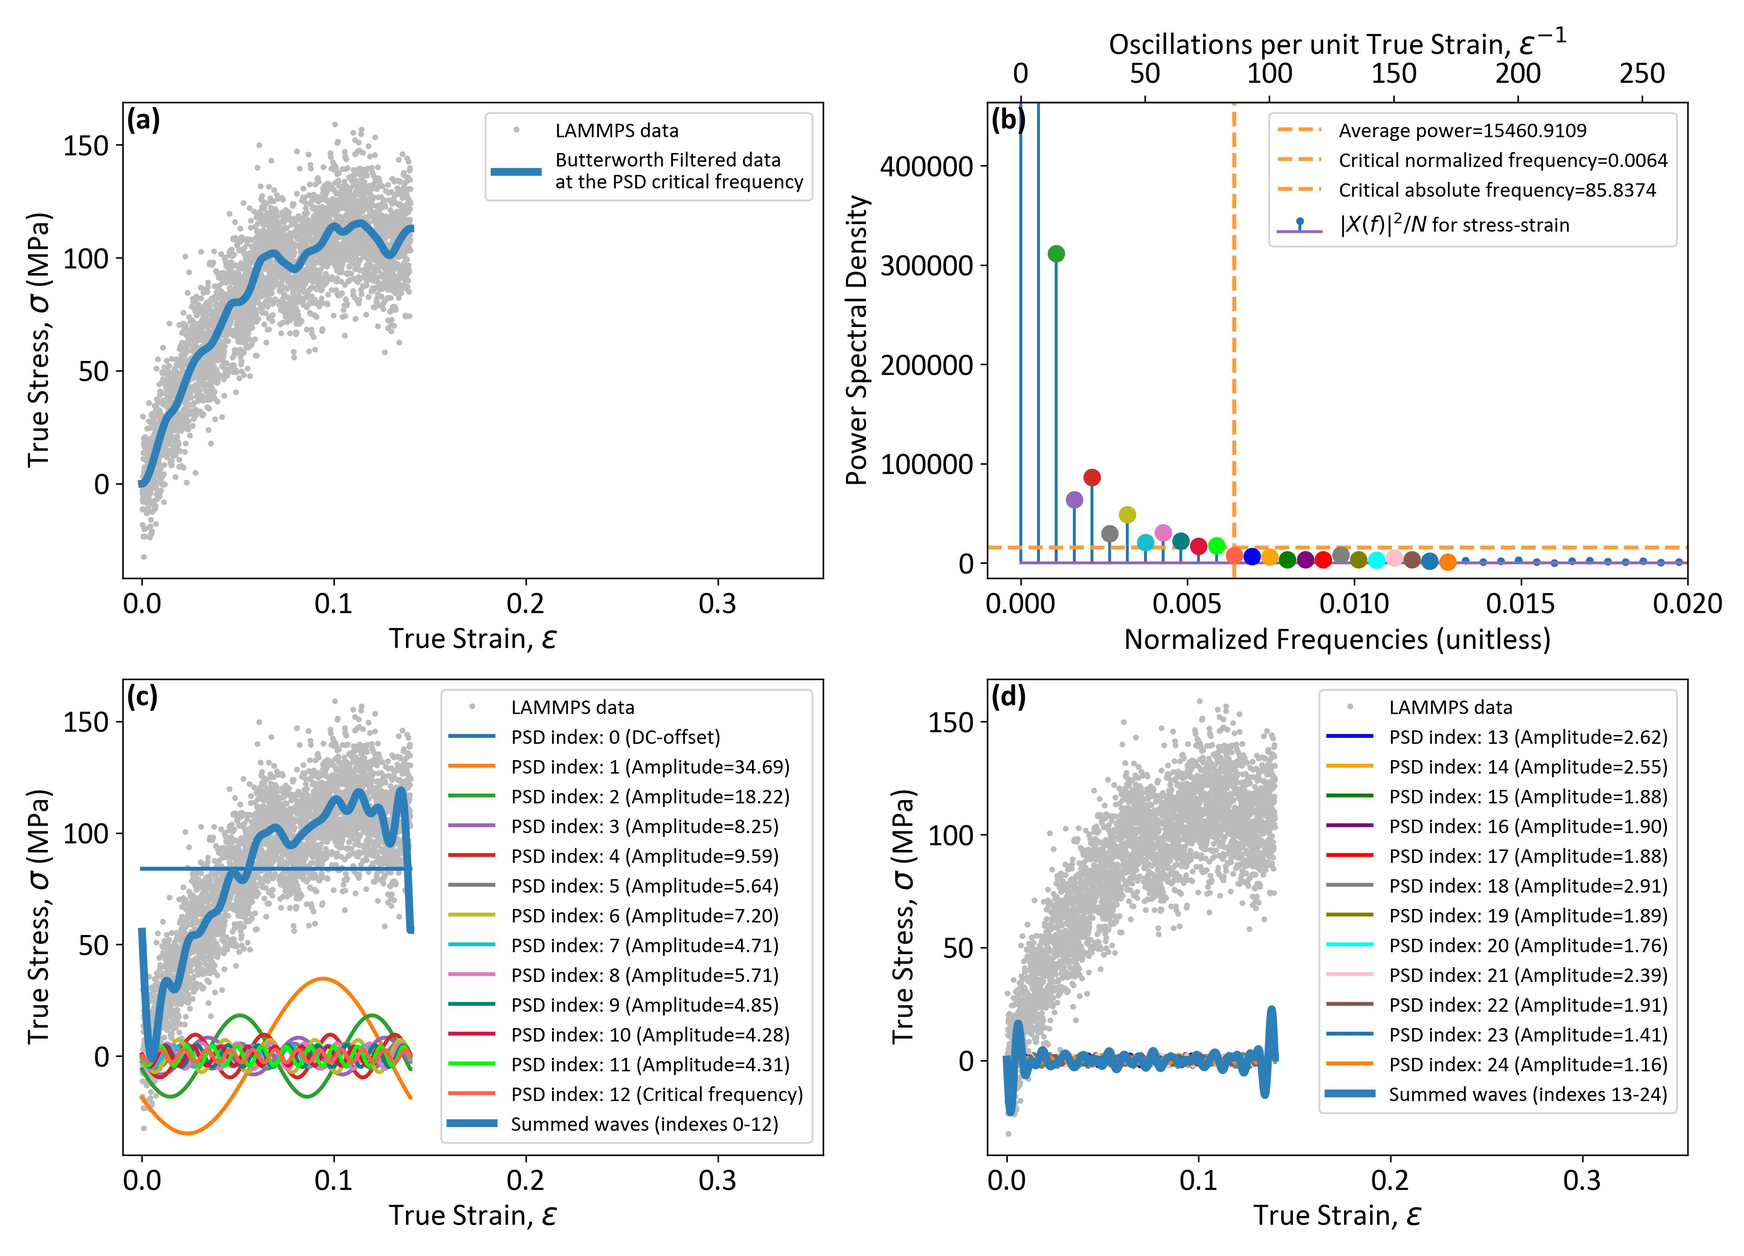
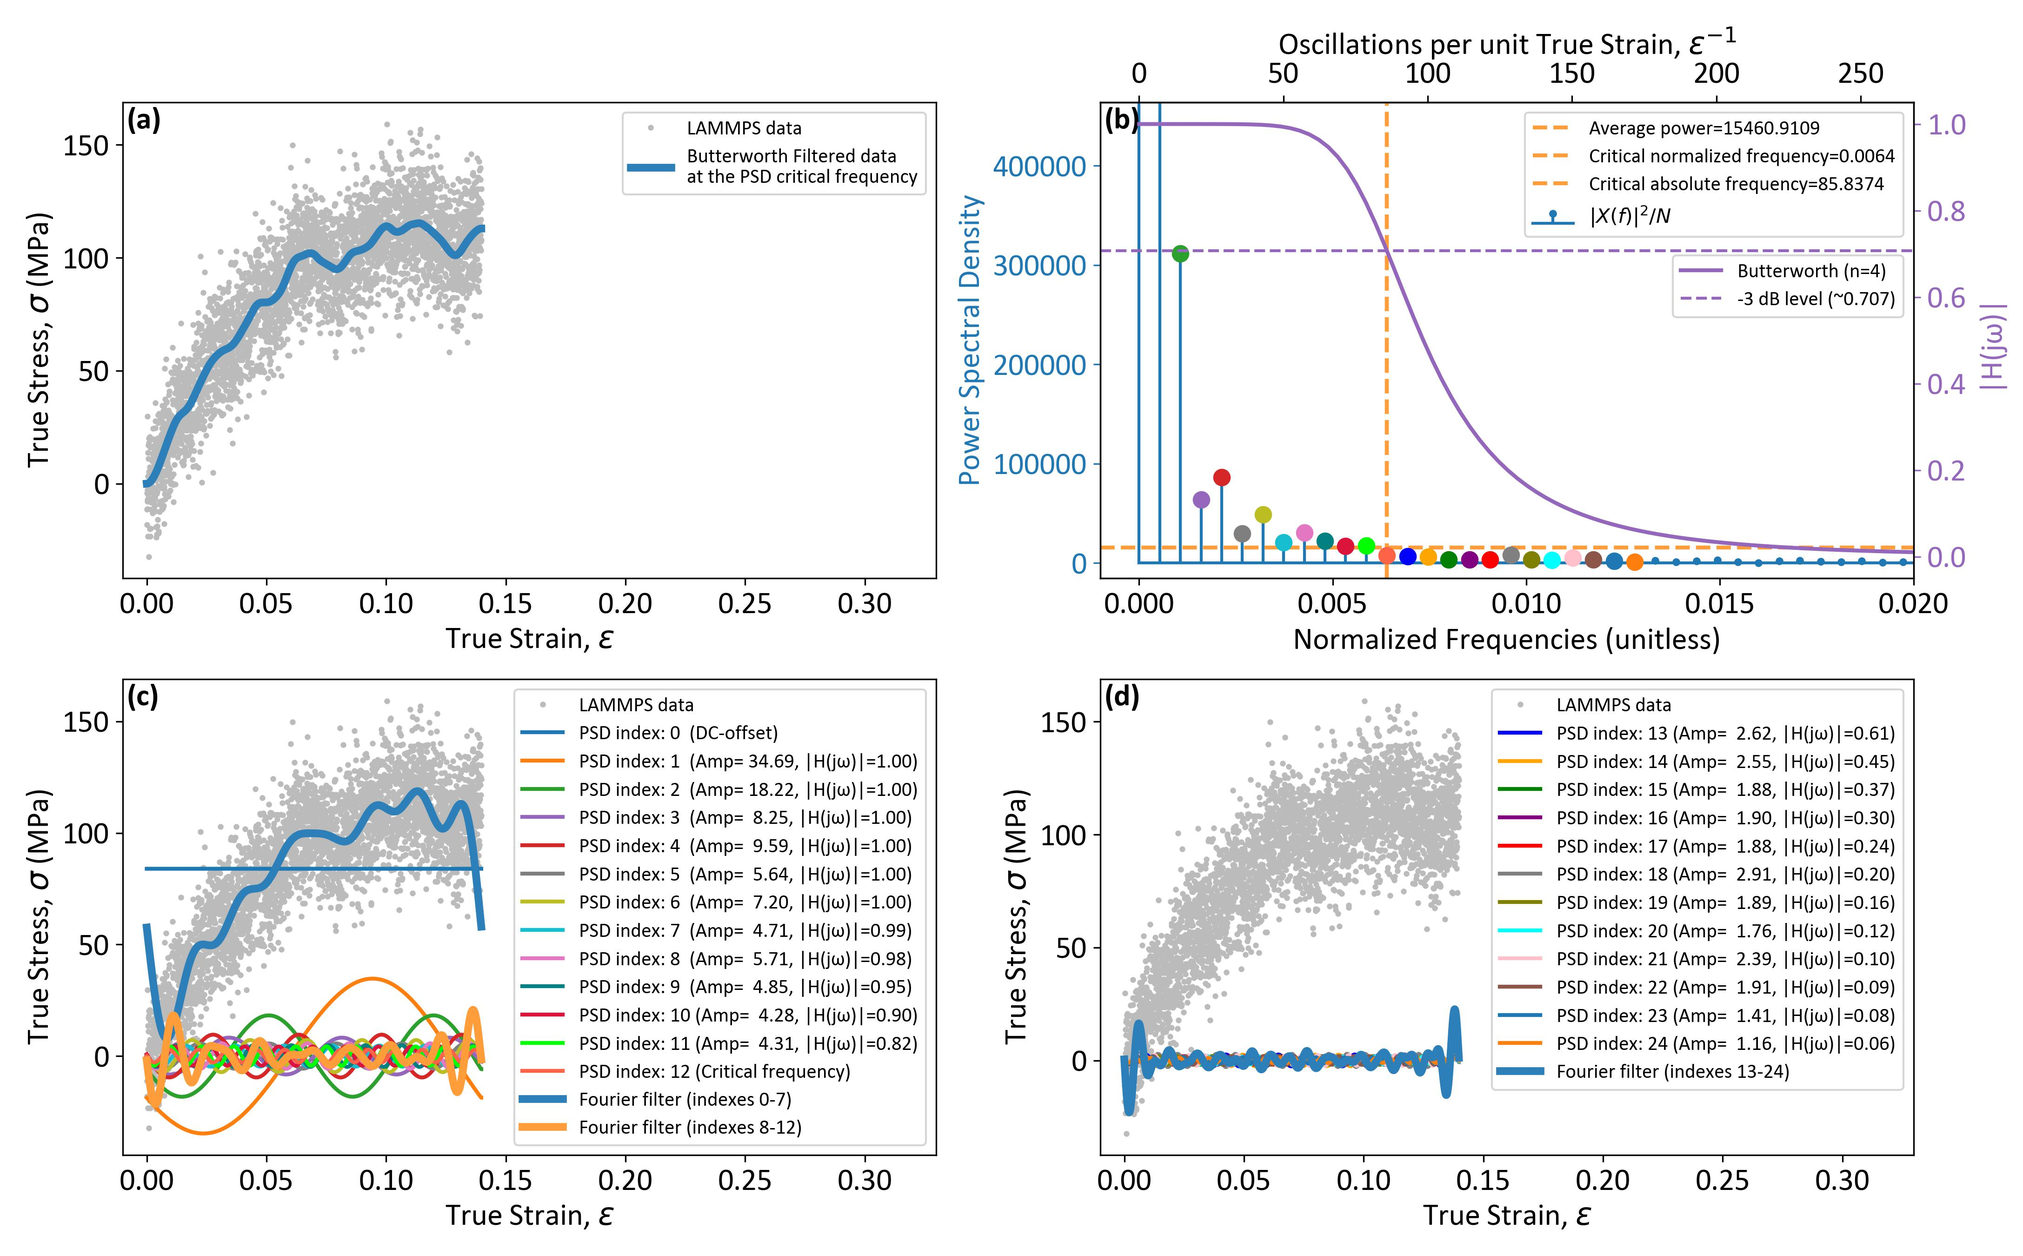
Adding Butterworth code

diff --git a/Cutoff_effects.py b/Cutoff_effects.py
@@ -43,6 +43,7 @@ from cycler import cycler
 import matplotlib.pyplot as plt
 import matplotlib as mpl  
 mpl.rc('font',family='Calibri')
+from matplotlib.ticker import ScalarFormatter
 import numpy as np
 import scipy as sp
 
@@ -54,14 +55,14 @@ import scipy as sp
 logfile = 'logfiles/tensile_1_EPON_862_pxld_86.8_replicate_4_FF_PCFF.log.lammps'
 strain_direction = 'x'
 
-logfile = 'logfiles/tensile_3_PBZ_pxld_87_replicate_5_FF_PCFF.log.lammps'
-strain_direction = 'z'
+# logfile = 'logfiles/tensile_3_PBZ_pxld_87_replicate_5_FF_PCFF.log.lammps'
+# strain_direction = 'z'
 
-logfile = 'logfiles/tensile_2_AroCy_L10_pxld_97_replicate_1_FF_PCFF.log.lammps'
-strain_direction = 'y'
+# logfile = 'logfiles/tensile_2_AroCy_L10_pxld_97_replicate_1_FF_PCFF.log.lammps'
+# strain_direction = 'y'
 
-# logfile = 'logfiles/tensile_1_PEEK_pxld_90_replicate_3_FF_PCFF.log.lammps'
-# strain_direction = 'x'
+logfile = 'logfiles/tensile_1_PEEK_pxld_90_replicate_3_FF_PCFF.log.lammps'
+strain_direction = 'x'
 
 
 # Set some column keywords to find sections in logfile with thermo data.
@@ -286,20 +287,6 @@ if __name__ == "__main__":
         freq = np.fft.rfftfreq(N, d=d)
         wns = freq/(0.5*fs) # Normalized freq
         return freq, wns, fs
-
-
-    def butterworth_amp_response(order=2, wn=0.1):
-        b, a = sp.signal.butter(order, wn, btype='low', analog=False, output='ba', fs=None)
-        f, h = sp.signal.freqz(b, a, worN=4096)
-        f = f / np.pi
-        h = abs(h)
-        return f, h
-
-    def butter_near_amp(nfreq, f, h):
-        index = np.abs(f - nfreq).argmin()
-        return h[index]
-    
-
     
     
     #---------------------------------#
@@ -312,7 +299,7 @@ if __name__ == "__main__":
     #   colors = plt.rcParams['axes.prop_cycle'].by_key()['color']
     # However, we can construct our own color wheel to prioritize the colors we want first and we can 
     # have way more colors defined than what matplotlib defines. Below is Josh's preferred color wheel
-    colors = ['tab:blue', 'tab:orange', 'tab:green', 'tab:purple', 'tab:red', 'tab:gray','tab:olive', 'tab:cyan', 'tab:pink', 'teal',
+    colors = ['tab:orange', 'tab:green', 'tab:purple', 'tab:red', 'tab:gray','tab:olive', 'tab:cyan', 'tab:pink', 'teal', 'tab:blue', 
               'crimson', 'lime', 'tomato',  'blue', 'orange', 'green', 'purple', 'red', 'gray', 'olive', 'cyan', 'pink', 'tab:brown']
 
 
@@ -330,28 +317,19 @@ if __name__ == "__main__":
     # Set xlimits
     delta = 0.01
     xlimits = (np.min(strain)-delta, np.max(strain)+1.5*delta)
-    xlimits = (np.min(strain)-delta, np.max(strain)+1.5*delta+0.175)
+    xlimits = (np.min(strain)-delta, np.max(strain)+1.5*delta+0.125)
     
     # Set fontsize
     fs = 16
-    legend_fs_scale = 0.65
+    legend_fs_scale = 0.7
     label_rel_pos = (0.005, 0.99)
     
     # Start plotting data
-    fig, ((ax1, ax2), (ax3, ax4)) = plt.subplots(2, 2, figsize=(14.5, 9))
+    fig, (ax1, ax2) = plt.subplots(1, 2, figsize=(14, 6))
 
-    ax1.plot(strain, stress, '.', ms=4, color='#bbbbbbff', label='LAMMPS data')
-    ax1.plot(strain, filtered_stress, '-', lw=4, color='#2c7fb8ff', label='Butterworth Filtered data\nat the PSD critical frequency')
-    ax1.legend(loc='upper right', bbox_to_anchor=(1, 1), fancybox=True, ncol=1, fontsize=legend_fs_scale*fs)
-    ax1.set_xlabel(r'True Strain, $\epsilon$', fontsize=fs)
-    ax1.set_ylabel(r'True Stress, $\sigma$ (MPa)', fontsize=fs)
-    ax1.tick_params(axis='both', which='major', labelsize=fs)
-    ax1.set_xlim(xlimits)
-    ax1.text(*label_rel_pos, '(a)', transform=ax1.transAxes, fontsize=fs, fontweight='bold', va='top', ha='left')
-    
+    ax1.plot(strain, stress, '.', ms=4, color='#bbbbbbff', label='LAMMPS data')      
     if str(wn).startswith('op'):
-        color = 'tab:blue'
-        ax2.stem(wns_stress, psd_stress, linefmt=color, basefmt=color, markerfmt='.', label='$|X(f)|^2/N$')
+        ax2.stem(wns_stress, psd_stress, linefmt='tab:blue', markerfmt='.', label='$|X(f)|^2/N$ for stress-strain')
         ax2.axhline(mean_stress_psd, color='#ff9d3aff', ls='--', lw=2, label='Average power={:.4f}'.format(mean_stress_psd))
 
         
@@ -364,92 +342,58 @@ if __name__ == "__main__":
             return freq/(0.5*sample_rate)
         
         ax2Top = ax2.secondary_xaxis('top', functions=(wn2freq, freq2wn))   
-        ax2Top.set_xlabel('Oscillations per unit True Strain, {}{}'.format(r'$\epsilon$', '$^{-1}$'), fontsize=fs)
+        ax2Top.set_xlabel('Cycles per unit True Strain, {}{}'.format(r'$\epsilon$', '$^{-1}$'), fontsize=fs)
         ax2Top.tick_params(axis='both', which='major', labelsize=fs)
                 
 
-        ax2.axvline(wn_stress, color='#ff9d3aff', ls='--', lw=2, label='Critical normalized frequency={:.4f}'.format(wn_stress))
-        ax2.axvline(wn_stress, color='#ff9d3aff', ls='--', lw=2, label='Critical absolute frequency={:.4f}'.format(wn_stress*(0.5*sample_rate)))
+        ax2.axvline(wn_stress, color='#ff9d3aff', ls='--', lw=2, label='Normalized: {}$_c$={:.4f}'.format(r'$\omega$', wn_stress))
+        ax2.axvline(wn_stress, color='#ff9d3aff', ls='--', lw=2, label='Absolute:      {}$_c$={:.4f}'.format(r'$\omega$', wn_stress*(0.5*sample_rate)))
         ax2.legend(loc='upper right', bbox_to_anchor=(1, 1), fancybox=True, ncol=1, fontsize=legend_fs_scale*fs)
-        ax2.set_xlabel('Normalized Frequencies (unitless)', fontsize=fs)
-        ax2.set_ylabel('Power Spectral Density', fontsize=fs, color=color)
-        ax2.tick_params(axis='x', which='major', labelsize=fs, colors='black')
-        ax2.tick_params(axis='y', which='major', labelsize=fs, colors=color)
-        ax2.set_xlim((-0.001, 0.02)) # Comment/uncomment for xlimits
+        ax2.set_xlabel('Normalized Frequency, {}'.format(r'$\omega$'), fontsize=fs)
+        ax2.set_ylabel('Power Spectral Density', fontsize=fs)
+        ax2.tick_params(axis='both', which='major', labelsize=fs)
+        ax2.set_xlim((-0.001, 0.04)) # Comment/uncomment for xlimits
         ax2.set_ylim((-1*mean_stress_psd, 30*mean_stress_psd)) # Comment/uncomment for xlimits
         ax2.text(*label_rel_pos, '(b)', transform=ax2.transAxes, fontsize=fs, fontweight='bold', va='top', ha='left')
         
         
-        ax2Left = ax2.twinx()
-        color = 'tab:purple'
-        f, h = butterworth_amp_response(order=4, wn=wn_stress)
-        ax2Left.plot(f, h, lw=2, color=color, label='Butterworth (n=4)')
-        ax2Left.axhline(1/np.sqrt(2) , linestyle='--', lw=1.5, color='tab:purple', label='-3 dB level (~0.707)')
-        ax2Left.set_ylabel('|H(jω)|', fontsize=fs, color=color)
-        ax2Left.tick_params(axis='both', which='major', labelsize=fs, colors=color)
-        ax2Left.set_xlim((-0.001, 0.02)) # Comment/uncomment for xlimits
-        ax2Left.legend(loc='upper right', bbox_to_anchor=(1, 0.7), fancybox=True, ncol=1, fontsize=legend_fs_scale*fs)
-        
-
-
-    color_index = 0
-    ax3.plot(strain, stress, '.', ms=4, color='#bbbbbbff', label='LAMMPS data')
-    comp_wave_1 = np.zeros_like(stress)
-    comp_wave_2 = np.zeros_like(stress)
-    lo = 0
-    hi = wn_index
-    for i in range(lo, hi+1):
-        wave, phase, frequency, amplitude = FFT_breakdown(strain, stress, [i], qm_stress)
-        sf = butter_near_amp(wns[i], f, h)
-        
-        if sf >= 0.99:
-            comp_wave_1 += wave
-            max_index = i
-        else:
-            comp_wave_2 += wave
+        label = 'PSD index: {}'.format(wn_index)
+        ax2.plot(wns_stress[wn_index], psd_stress[wn_index], 'o', ms=8, color='#2c7fb8ff')
             
-        label = 'PSD index: {:<2}'.format(i)
-        if i == 0: label += ' (DC-offset)'
-        elif i == wn_index: label += ' (Critical frequency)'
-        else: label += ' (Amp={:>6.2f}, |H(jω)|={:.2f})'.format(amplitude, sf)
-        color, color_index = walk_colors(color_index, colors)
-        
-        ax3.plot(strain, wave, '-', lw=2, color=color, label=label)
-        ax2.plot(wns_stress[i], psd_stress[i], 'o', ms=8, color=color)
-    ax3.plot(strain, comp_wave_1, '-', lw=4, color='#2c7fb8ff', label='Fourier filter (indexes {}-{})'.format(lo, max_index))
-    ax3.plot(strain, comp_wave_2, '-', lw=4, color='#ff9d3aff', label='Fourier filter (indexes {}-{})'.format(max_index+1, hi))
 
-    ax3.legend(loc='upper right', bbox_to_anchor=(1, 1), fancybox=True, ncol=1, fontsize=legend_fs_scale*fs)
-    ax3.set_xlabel(r'True Strain, $\epsilon$', fontsize=fs)
-    ax3.set_ylabel(r'True Stress, $\sigma$ (MPa)', fontsize=fs)
-    ax3.tick_params(axis='both', which='major', labelsize=fs)
-    ax3.set_xlim(xlimits)
-    ax3.text(*label_rel_pos, '(c)', transform=ax3.transAxes, fontsize=fs, fontweight='bold', va='top', ha='left')
+        indexes = [int(wn_index)]
+        lo = int(wn_index/6)
+        hi = int(2*wn_index)
+        inc = lo
+        for i in range(lo, hi, inc):
+            indexes.append( int(wn_index + 2*i) )
+            indexes.append( int(wn_index - i) )
+        indexes = sorted(indexes)
+        color_index = 0
+        for i in indexes:
+            if i <= 0: continue
+            filtered_stress_i, qm_stress_i = signals.butter_lowpass_filter(strain, stress, wns_stress[i], order, qm_stress)
+            if i == wn_index:
+                label = 'PSD index: {} (Critical frequency)'.format(wn_index)
+                color = '#2c7fb8ff'
+                ax1.plot(strain, filtered_stress, '-', lw=2, color='#2c7fb8ff', zorder=5, label=label)
+            else:
+                color, color_index = walk_colors(color_index, colors)
+                label = 'PSD index: {}'.format(i)
+                ax1.plot(strain, filtered_stress_i, '-', lw=2, color=color, label=label)
+            
+            ax2.plot(wns_stress[i], psd_stress[i], 'o', ms=8, color=color)
+            
+    ax1.legend(loc='upper right', bbox_to_anchor=(1, 1), fancybox=True, ncol=1, fontsize=legend_fs_scale*fs)
+    ax1.set_xlabel(r'True Strain, $\epsilon$', fontsize=fs)
+    ax1.set_ylabel(r'True Stress, $\sigma$ (MPa)', fontsize=fs)
+    ax1.tick_params(axis='both', which='major', labelsize=fs)
+    ax1.set_xlim(xlimits)
+    ax1.text(*label_rel_pos, '(a)', transform=ax1.transAxes, fontsize=fs, fontweight='bold', va='top', ha='left')
 
-    ax4.plot(strain, stress, '.', ms=4, color='#bbbbbbff', label='LAMMPS data')
-    comp_wave = np.zeros_like(stress)
-    lo = int(wn_index+1)
-    hi = int(2*wn_index)
-    for i in range(lo, hi+1):
-        wave, phase, frequency, amplitude = FFT_breakdown(strain, stress, [i], qm_stress)
-        sf = butter_near_amp(wns[i], f, h)
-        comp_wave += wave
-        label = 'PSD index: {:<2}'.format(i)
-        label += ' (Amp={:>6.2f}, |H(jω)|={:.2f})'.format(amplitude, sf)
-        color, color_index = walk_colors(color_index, colors)
-        ax4.plot(strain, wave, '-', lw=2, color=color, label=label)
-        ax2.plot(wns_stress[i], psd_stress[i], 'o', ms=8, color=color)
-    ax4.plot(strain, comp_wave, '-', lw=4, color='#2c7fb8ff', label='Fourier filter (indexes {}-{})'.format(lo, hi))
 
-    ax4.legend(loc='upper right', bbox_to_anchor=(1, 1), fancybox=True, ncol=1, fontsize=legend_fs_scale*fs)
-    ax4.set_xlabel(r'True Strain, $\epsilon$', fontsize=fs)
-    ax4.set_ylabel(r'True Stress, $\sigma$ (MPa)', fontsize=fs)
-    ax4.tick_params(axis='both', which='major', labelsize=fs)
-    ax4.set_xlim(xlimits)
-    ax4.text(*label_rel_pos, '(d)', transform=ax4.transAxes, fontsize=fs, fontweight='bold', va='top', ha='left')
-        
-    
     fig.tight_layout()
     plt.show()
-    basename = logfile[:logfile.rfind('.')] + '_Waves'
+    
+    basename = logfile[:logfile.rfind('.')] + '_Cutoffs'
     fig.savefig(basename+'.jpeg', dpi=300)

diff --git a/Butterworth.py b/Butterworth.py
@@ -1,0 +1,172 @@
+# -*- coding: utf-8 -*-
+"""
+@author: Josh Kemppainen
+Revision 1.0
+March 24, 2025
+Michigan Technological University
+1400 Townsend Dr.
+Houghton, MI 49931
+
+    ****************************************************************
+    * Requirements:                                                *
+    *   python 3.7+                                                *
+    *                                                              *
+    * Dependencies:                                                *
+    *   python matplotlib module:                                  *
+    *    - pip3 install matplotlib (if pip manager is installed)   *
+    *                                                              *
+    *   python numpy module:                                       *
+    *    - pip3 install numpy (if pip manager is installed)        *
+    *                                                              *
+    *   python scipy module:                                       *
+    *    - pip3 install scipy (if pip manager is installed)        *
+    ****************************************************************
+    * Notes for Anaconda Spyder IDE users:                         *
+    *   - If running this from the Anaconda Spyder IDE, before     *
+    *     running you will have to turn on the interactive plot    *
+    *     if you want the interactive plot to pop-up. You may do   *
+    *     this by executing the following command in the console:  *
+    *        %matplotlib qt                                        *
+    *     Then to turn back on the inline plotting, where the plots*
+    *     will appear in the Plots tab execute the following       *
+    *     command in the console:                                  *
+    *        %matplotlib inline                                    *
+    ****************************************************************
+"""
+##############################
+# Import Necessary Libraries #
+##############################
+import matplotlib.pyplot as plt
+import matplotlib as mpl  
+mpl.rc('font',family='Calibri')
+import numpy as np
+import scipy as sp
+
+
+
+
+
+
+def butterworth_amp_response(order=2, wn=0.1):
+    b, a = sp.signal.butter(order, wn, btype='low', analog=False, output='ba', fs=None)
+    f, h = sp.signal.freqz(b, a, worN=4096)
+    f = f / np.pi
+    h = abs(h)
+    return f, h
+
+def get_ylims(h):
+    tol = 0.1
+    y = np.real(h)
+    diff = abs(max(y) - min(y))
+    lo = min(y) - tol*diff
+    hi = max(y) + tol*diff
+    ylo, yhi = sorted([lo, hi])
+    return ylo, yhi
+
+# Set fontsize
+fs = 16
+legend_fs_scale = 0.7
+label_rel_pos = (0.005, 0.99)
+
+ylo = -0.1
+yhi =  1.1
+mag_3db = 1/np.sqrt(2)      # ~0.707
+
+
+fig, ((ax1, ax2), (ax3, ax4)) = plt.subplots(2, 2, figsize=(12.5, 9))
+
+
+wn = 0.2
+f, h = butterworth_amp_response(order=4, wn=wn)
+ax1.plot(*butterworth_amp_response(order=2, wn=wn), lw=2, color='tab:blue', label='Butterworth (n=2)')
+ax1.plot(f, h, lw=2, color='tab:purple', label='Butterworth (n=4)')
+ax1.plot(*butterworth_amp_response(order=6, wn=wn), lw=2, color='tab:green', label='Butterworth (n=6)')
+ax1.plot(*butterworth_amp_response(order=8, wn=wn), lw=2, color='tab:cyan', label='Butterworth (n=8)')
+ax1.axvline(wn, linestyle='--', lw=1.5, color='#ff9d3aff', label='Cutoff Frequency ({}$_c$)'.format(r'$\omega$'))
+ax1.axhline(mag_3db, linestyle='--', lw=1.5, color='#bbbbbbff', label='-3 dB level (~0.707)')
+
+# Shade passband and stopband regions
+ax1.fill_between(f, ylo, yhi, where=(f <= wn), alpha=0.1, color='tab:blue', label='Passband')
+ax1.fill_between(f, ylo, yhi, where=(f >= wn), alpha=0.1, color='tab:orange', label='Stopband')
+
+ax1.set_xlim((0, 1))
+ax1.set_ylim((ylo, yhi))
+ax1.set_xlabel('Normalized Frequency, {}'.format(r'$\omega$'), fontsize=fs)
+ax1.set_ylabel('|H(jω)|', fontsize=fs)
+ax1.tick_params(axis='both', which='major', labelsize=fs)
+ax1.legend(loc='upper right', bbox_to_anchor=(1, 1), fancybox=True, ncol=1, fontsize=legend_fs_scale*fs)
+ax1.text(*label_rel_pos, '(a)', transform=ax1.transAxes, fontsize=fs, fontweight='bold', va='top', ha='left')
+
+
+
+wn = 0.4
+f, h = butterworth_amp_response(order=4, wn=wn)
+ax2.plot(*butterworth_amp_response(order=2, wn=wn), lw=2, color='tab:blue', label='Butterworth (n=2)')
+ax2.plot(f, h, lw=2, color='tab:purple', label='Butterworth (n=4)')
+ax2.plot(*butterworth_amp_response(order=6, wn=wn), lw=2, color='tab:green', label='Butterworth (n=6)')
+ax2.plot(*butterworth_amp_response(order=8, wn=wn), lw=2, color='tab:cyan', label='Butterworth (n=8)')
+ax2.axvline(wn, linestyle='--', lw=1.5, color='#ff9d3aff', label='Cutoff Frequency ({}$_c$)'.format(r'$\omega$'))
+ax2.axhline(mag_3db, linestyle='--', lw=1.5, color='#bbbbbbff', label='-3 dB level (~0.707)')
+
+# Shade passband and stopband regions
+ax2.fill_between(f, ylo, yhi, where=(f <= wn), alpha=0.1, color='tab:blue', label='Passband')
+ax2.fill_between(f, ylo, yhi, where=(f >= wn), alpha=0.1, color='tab:orange', label='Stopband')
+
+ax2.set_xlim((0, 1))
+ax2.set_ylim((ylo, yhi))
+ax2.set_xlabel('Normalized Frequency, {}'.format(r'$\omega$'), fontsize=fs)
+ax2.set_ylabel('|H(jω)|', fontsize=fs)
+ax2.tick_params(axis='both', which='major', labelsize=fs)
+ax2.legend(loc='upper right', bbox_to_anchor=(1, 1), fancybox=True, ncol=1, fontsize=legend_fs_scale*fs)
+ax2.text(*label_rel_pos, '(b)', transform=ax2.transAxes, fontsize=fs, fontweight='bold', va='top', ha='left')
+
+
+
+wn = 0.6
+f, h = butterworth_amp_response(order=4, wn=wn)
+ax3.plot(*butterworth_amp_response(order=2, wn=wn), lw=2, color='tab:blue', label='Butterworth (n=2)')
+ax3.plot(f, h, lw=2, color='tab:purple', label='Butterworth (n=4)')
+ax3.plot(*butterworth_amp_response(order=6, wn=wn), lw=2, color='tab:green', label='Butterworth (n=6)')
+ax3.plot(*butterworth_amp_response(order=8, wn=wn), lw=2, color='tab:cyan', label='Butterworth (n=8)')
+ax3.axvline(wn, linestyle='--', lw=1.5, color='#ff9d3aff', label='Cutoff Frequency ({}$_c$)'.format(r'$\omega$'))
+ax3.axhline(mag_3db, linestyle='--', lw=1.5, color='#bbbbbbff', label='-3 dB level (~0.707)')
+
+# Shade passband and stopband regions
+ax3.fill_between(f, ylo, yhi, where=(f <= wn), alpha=0.1, color='tab:blue', label='Passband')
+ax3.fill_between(f, ylo, yhi, where=(f >= wn), alpha=0.1, color='tab:orange', label='Stopband')
+
+ax3.set_xlim((0, 1))
+ax3.set_ylim((ylo, yhi))
+ax3.set_xlabel('Normalized Frequency, {}'.format(r'$\omega$'), fontsize=fs)
+ax3.set_ylabel('|H(jω)|', fontsize=fs)
+ax3.tick_params(axis='both', which='major', labelsize=fs)
+ax3.legend(loc='lower left', bbox_to_anchor=(0, 0), fancybox=True, ncol=1, fontsize=legend_fs_scale*fs)
+ax3.text(*label_rel_pos, '(c)', transform=ax3.transAxes, fontsize=fs, fontweight='bold', va='top', ha='left')
+
+
+wn = 0.8
+f, h = butterworth_amp_response(order=4, wn=wn)
+ax4.plot(*butterworth_amp_response(order=2, wn=wn), lw=2, color='tab:blue', label='Butterworth (n=2)')
+ax4.plot(f, h, lw=2, color='tab:purple', label='Butterworth (n=4)')
+ax4.plot(*butterworth_amp_response(order=6, wn=wn), lw=2, color='tab:green', label='Butterworth (n=6)')
+ax4.plot(*butterworth_amp_response(order=8, wn=wn), lw=2, color='tab:cyan', label='Butterworth (n=8)')
+ax4.axvline(wn, linestyle='--', lw=1.5, color='#ff9d3aff', label='Cutoff Frequency ({}$_c$)'.format(r'$\omega$'))
+ax4.axhline(mag_3db, linestyle='--', lw=1.5, color='#bbbbbbff', label='-3 dB level (~0.707)')
+
+# Shade passband and stopband regions
+ax4.fill_between(f, ylo, yhi, where=(f <= wn), alpha=0.1, color='tab:blue', label='Passband')
+ax4.fill_between(f, ylo, yhi, where=(f >= wn), alpha=0.1, color='tab:orange', label='Stopband')
+
+ax4.set_xlim((0, 1))
+ax4.set_ylim((ylo, yhi))
+ax4.set_xlabel('Normalized Frequency, {}'.format(r'$\omega$'), fontsize=fs)
+ax4.set_ylabel('|H(jω)|', fontsize=fs)
+ax4.tick_params(axis='both', which='major', labelsize=fs)
+ax4.legend(loc='lower left', bbox_to_anchor=(0, 0), fancybox=True, ncol=1, fontsize=legend_fs_scale*fs)
+ax4.text(*label_rel_pos, '(d)', transform=ax4.transAxes, fontsize=fs, fontweight='bold', va='top', ha='left')
+
+fig.tight_layout()
+plt.show()
+
+basename = 'Butterworth'
+fig.savefig(basename+'.jpeg', dpi=300)
